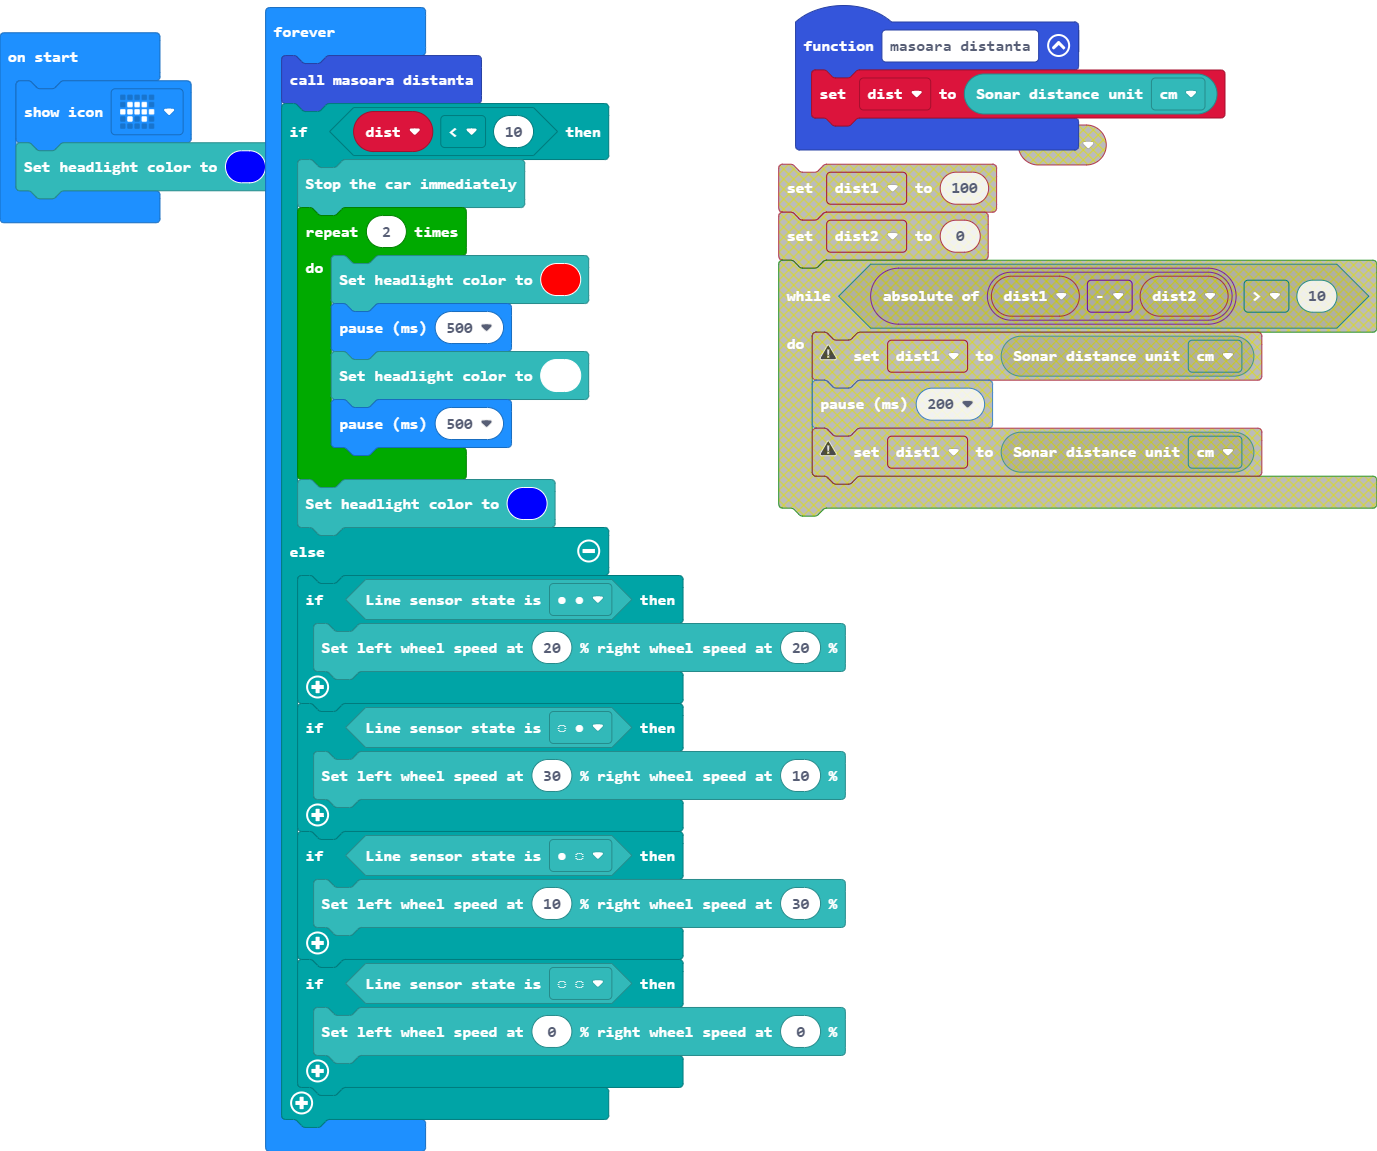
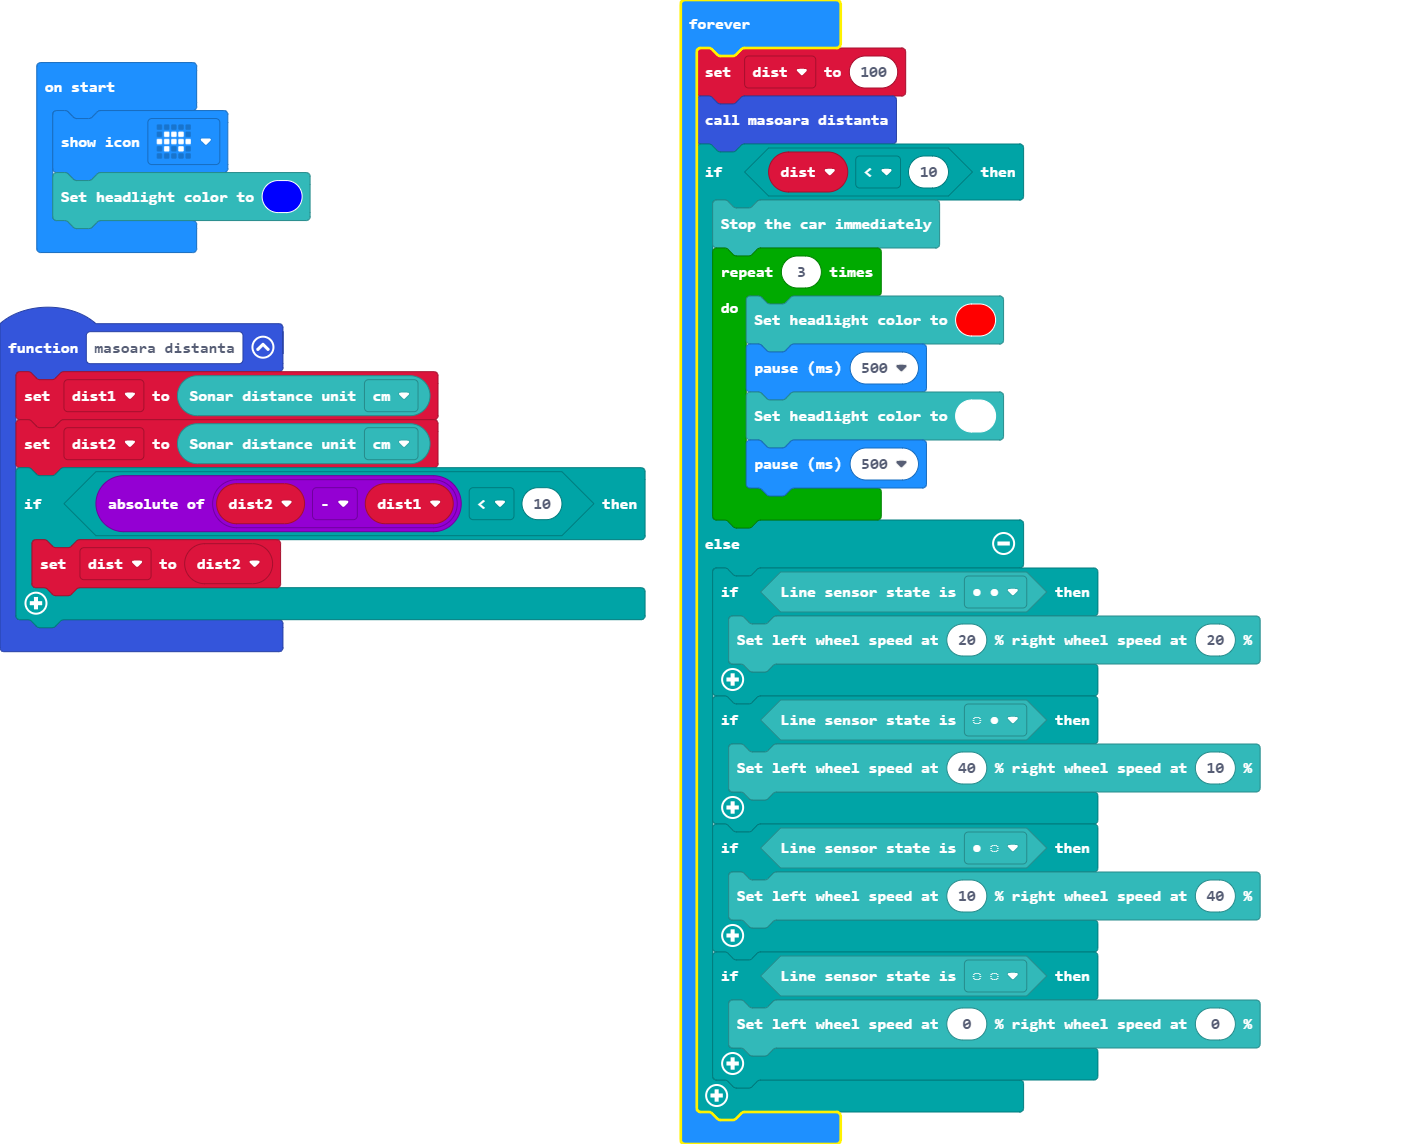
Update pxt.json, main.blocks, main.ts

diff --git a/main.ts b/main.ts
@@ -1,29 +1,35 @@
 function masoara_distanta () {
-    dist = TPBot.sonarReturn(TPBot.SonarUnit.Centimeters)
+    dist1 = TPBot.sonarReturn(TPBot.SonarUnit.Centimeters)
+    dist2 = TPBot.sonarReturn(TPBot.SonarUnit.Centimeters)
+    if (Math.abs(dist2 - dist1) < 10) {
+        dist = dist2
+    }
 }
 let dist = 0
+let dist2 = 0
+let dist1 = 0
 basic.showIcon(IconNames.Tortoise)
 TPBot.headlightColor(0x0000ff)
 basic.forever(function () {
+    dist = 100
     masoara_distanta()
     if (dist < 10) {
         TPBot.stopCar()
-        for (let index = 0; index < 2; index++) {
+        for (let index = 0; index < 3; index++) {
             TPBot.headlightColor(0xff0000)
             basic.pause(500)
             TPBot.headlightColor(0xffffff)
             basic.pause(500)
         }
-        TPBot.headlightColor(0x0000ff)
     } else {
         if (TPBot.trackLine(TPBot.TrackingState.L_R_line)) {
             TPBot.setWheels(20, 20)
         }
         if (TPBot.trackLine(TPBot.TrackingState.L_unline_R_line)) {
-            TPBot.setWheels(30, 10)
+            TPBot.setWheels(40, 10)
         }
         if (TPBot.trackLine(TPBot.TrackingState.L_line_R_unline)) {
-            TPBot.setWheels(10, 30)
+            TPBot.setWheels(10, 40)
         }
         if (TPBot.trackLine(TPBot.TrackingState.L_R_unline)) {
             TPBot.setWheels(0, 0)
